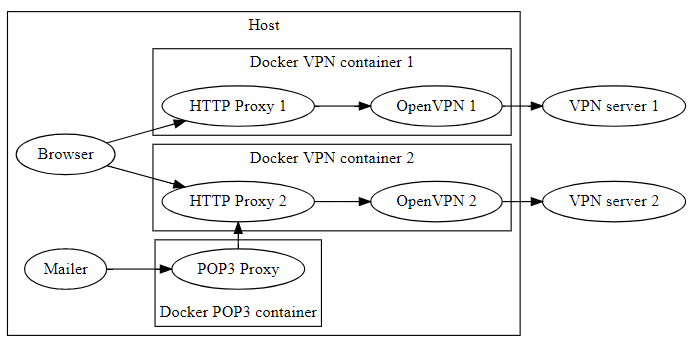
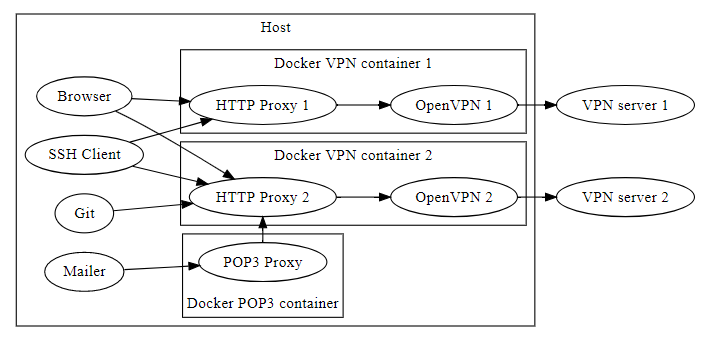
[Update] 構成図にSSH/Gitを追加
sshやgitもプロキシ経由で通信可能

diff --git a/doc/image/configuration_diagram.md b/doc/image/configuration_diagram.md
@@ -8,6 +8,9 @@ digraph configuration_diagram {
         label = "Host";
         Browser -> "HTTP Proxy 1";
         Browser -> "HTTP Proxy 2";
+        "SSH Client" -> "HTTP Proxy 1";
+        "SSH Client" -> "HTTP Proxy 2";
+        Git -> "HTTP Proxy 2";
         Mailer -> "POP3 Proxy";
         subgraph cluster_container_1 {
             label = "Docker VPN container 1";
